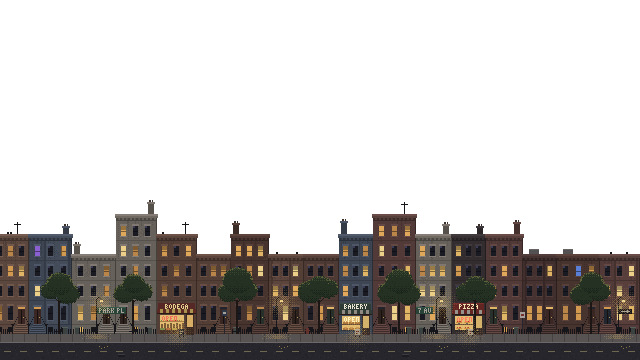
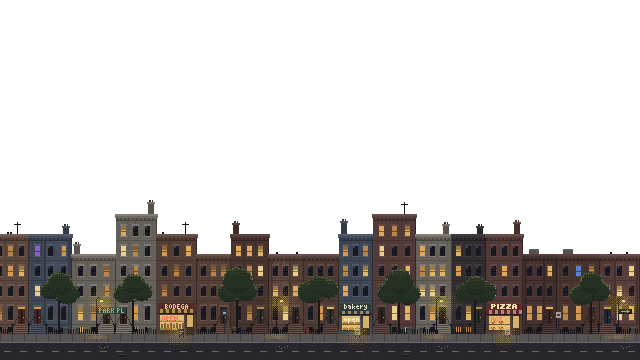
Letter each sign in its own face; smaller warning lights
The signs were all in one three-by-five alphabet. There are now four
faces: small capitals, a hand-lettered lower case, chunky block
capitals and tall narrow ones. The bodega keeps small capitals, the
bakery is in lower case, the pizza place in block capitals, the hotel's
roof sign in tall ones, and the pizza billboard mixes two. The words in
the shop windows follow their shops. Capitals with diagonals (M, N, W)
are a column wider so they read as themselves.

The red warning lights on tall buildings are one scene pixel, not two
by two. The 7 AV street sign is gone; the pizza place moved along the
block so no tree stands in front of its window.

Claude-Session: https://claude.ai/code/session_01EBistM71Eern9ZJH7YkCX4

Changed region(s): [[0.625, 0.825, 0.875, 0.9472], [0.5312, 0.8556, 0.5625, 0.8861]]

diff --git a/src/components/shell/art/index.ts b/src/components/shell/art/index.ts
@@ -1298,7 +1298,7 @@ export const SCENES = {
             "y": 333
           },
           {
-            "x": 493,
+            "x": 478,
             "y": 333
           },
           {
@@ -1737,18 +1737,18 @@ export const SCENES = {
           "when": "night"
         },
         {
+          "x": 466,
+          "y": 306,
+          "w": 5,
+          "h": 14,
+          "when": "evening"
+        },
+        {
           "x": 502,
           "y": 266,
           "w": 5,
           "h": 10,
           "when": "always"
-        },
-        {
-          "x": 502,
-          "y": 306,
-          "w": 5,
-          "h": 14,
-          "when": "evening"
         },
         {
           "x": 547,

diff --git a/src/components/shell/backdrop.module.css b/src/components/shell/backdrop.module.css
@@ -374,10 +374,11 @@
   transition: opacity 900ms linear;
 }
 
+/* One pixel of the scene: a pinprick of red, as they look from across the river. */
 .beacon {
   position: absolute;
-  width: 0.3125%;
-  height: 0.5556%;
+  width: var(--u);
+  height: var(--u);
   background: #d9543b;
   animation: og-blink 2.4s steps(1) infinite;
 }

diff --git a/README.md b/README.md
@@ -43,7 +43,9 @@ interface is see-through, over a pixel-art New York that keeps real time.
   already sitting out when you open the scene.
 - **Shops and signs.** A bodega, a bakery and a pizza place, each with its name
   on the sign, a word in neon in the window, goods on the shelves and a board
-  out on the pavement. Street signs on the lamp posts, a bus stop, a no-parking
+  out on the pavement. No two are lettered alike: small capitals, a
+  hand-lettered lower case, chunky block capitals, and tall narrow ones on the
+  hotel's roof sign. A street sign on a lamp post, a bus stop, a no-parking
   plate. On the skyline's roofs, two billboards lit after dark.
 - **Barbecues.** Now and then somebody has one on a roof: a string of lights
   goes up, a grill smokes, and people come up a few at a time. It lasts about
@@ -55,7 +57,7 @@ interface is see-through, over a pixel-art New York that keeps real time.
   in fifty or so is lit red, blue, violet or green by an LED strip instead of a
   lamp.
 - **Warning lights.** After dark about one building in eight carries a red
-  light at its top, blinking out of step with the others.
+  light at its top, a single pixel, blinking out of step with the others.
 - **More birds.** Besides the flock that crosses, ones, twos and small groups
   fly through while it is light.
 
@@ -341,7 +343,7 @@ Day to day, use the look panel (above). To change what it starts from:
     on the street is `PARKED` and `MOVING` in `brooklyn.mjs`.
   - `scripts/art/landmarks.mjs`: One World Trade, the Empire State and the
     Chrysler Building.
-  - `scripts/art/street.mjs`: the lettering, shopfronts and what is in their
+  - `scripts/art/street.mjs`: the four lettering faces (`FONTS`), shopfronts and what is in their
     windows, street signs and billboards. The shops themselves are listed in
     `brooklyn.mjs` (`shops`), the billboards in `skyline.mjs` (`boards`).
   - `scripts/art/extras.mjs`: the figures seen in windows, and the grill and
